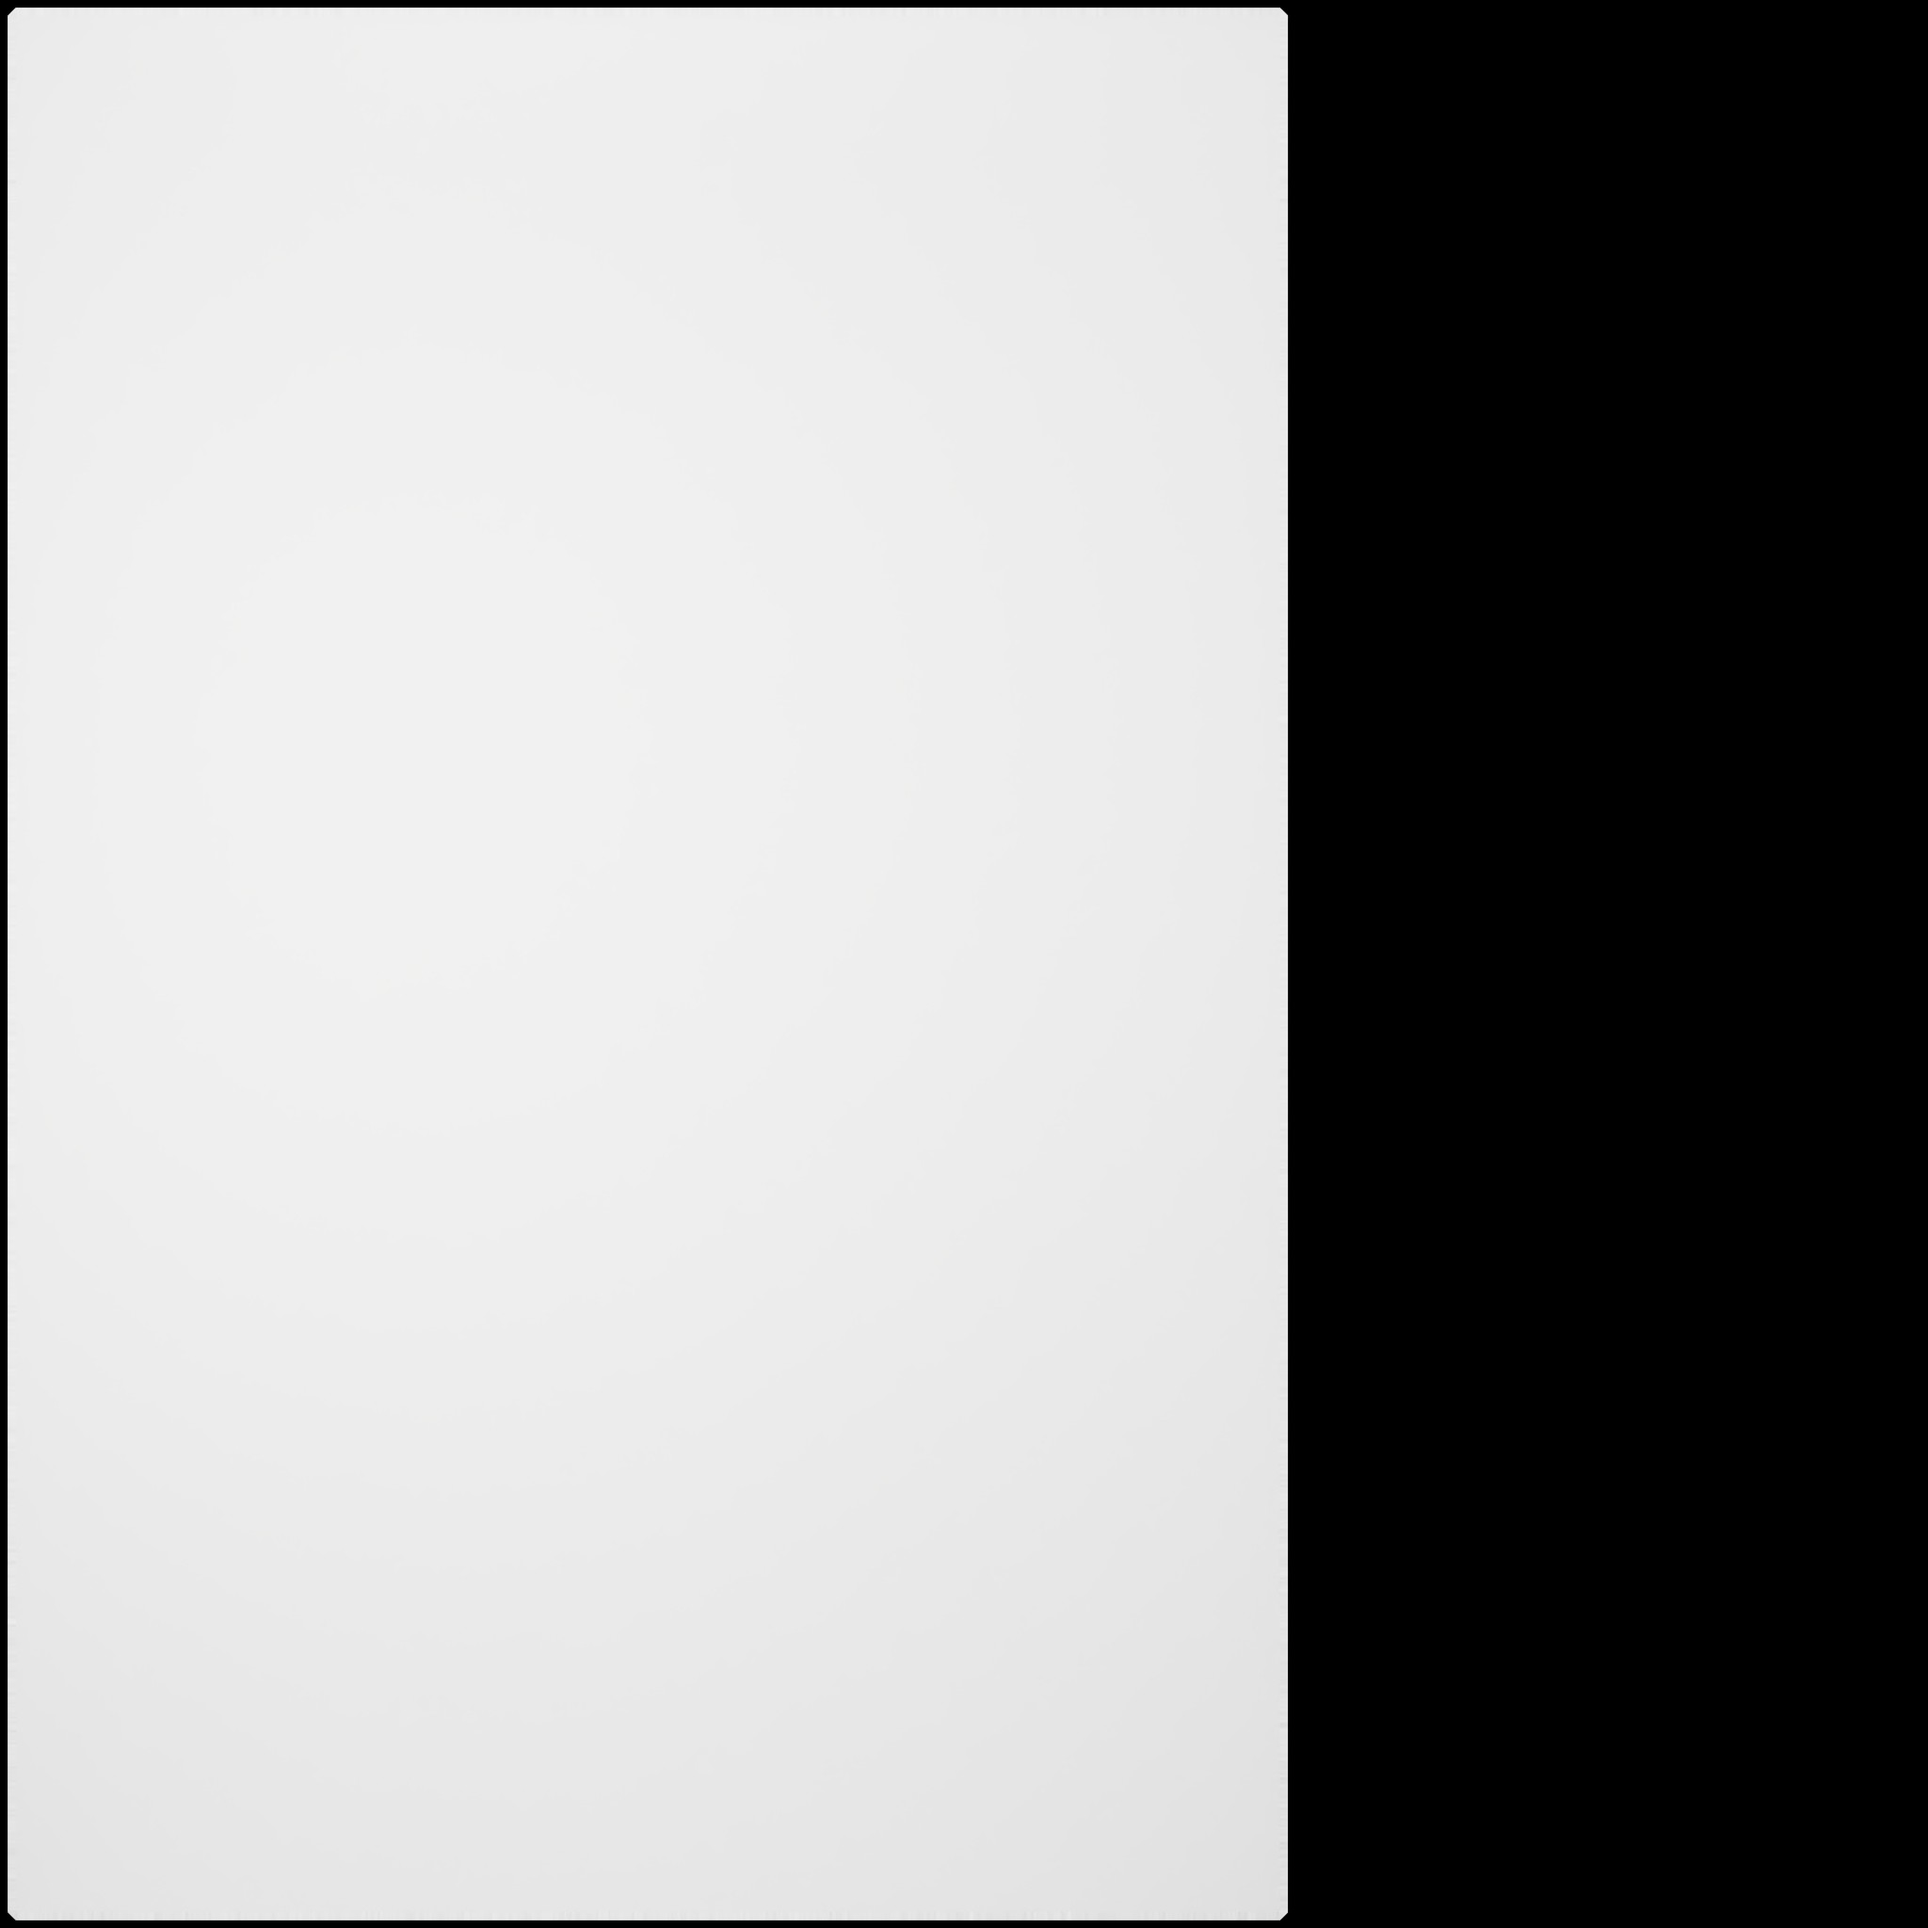
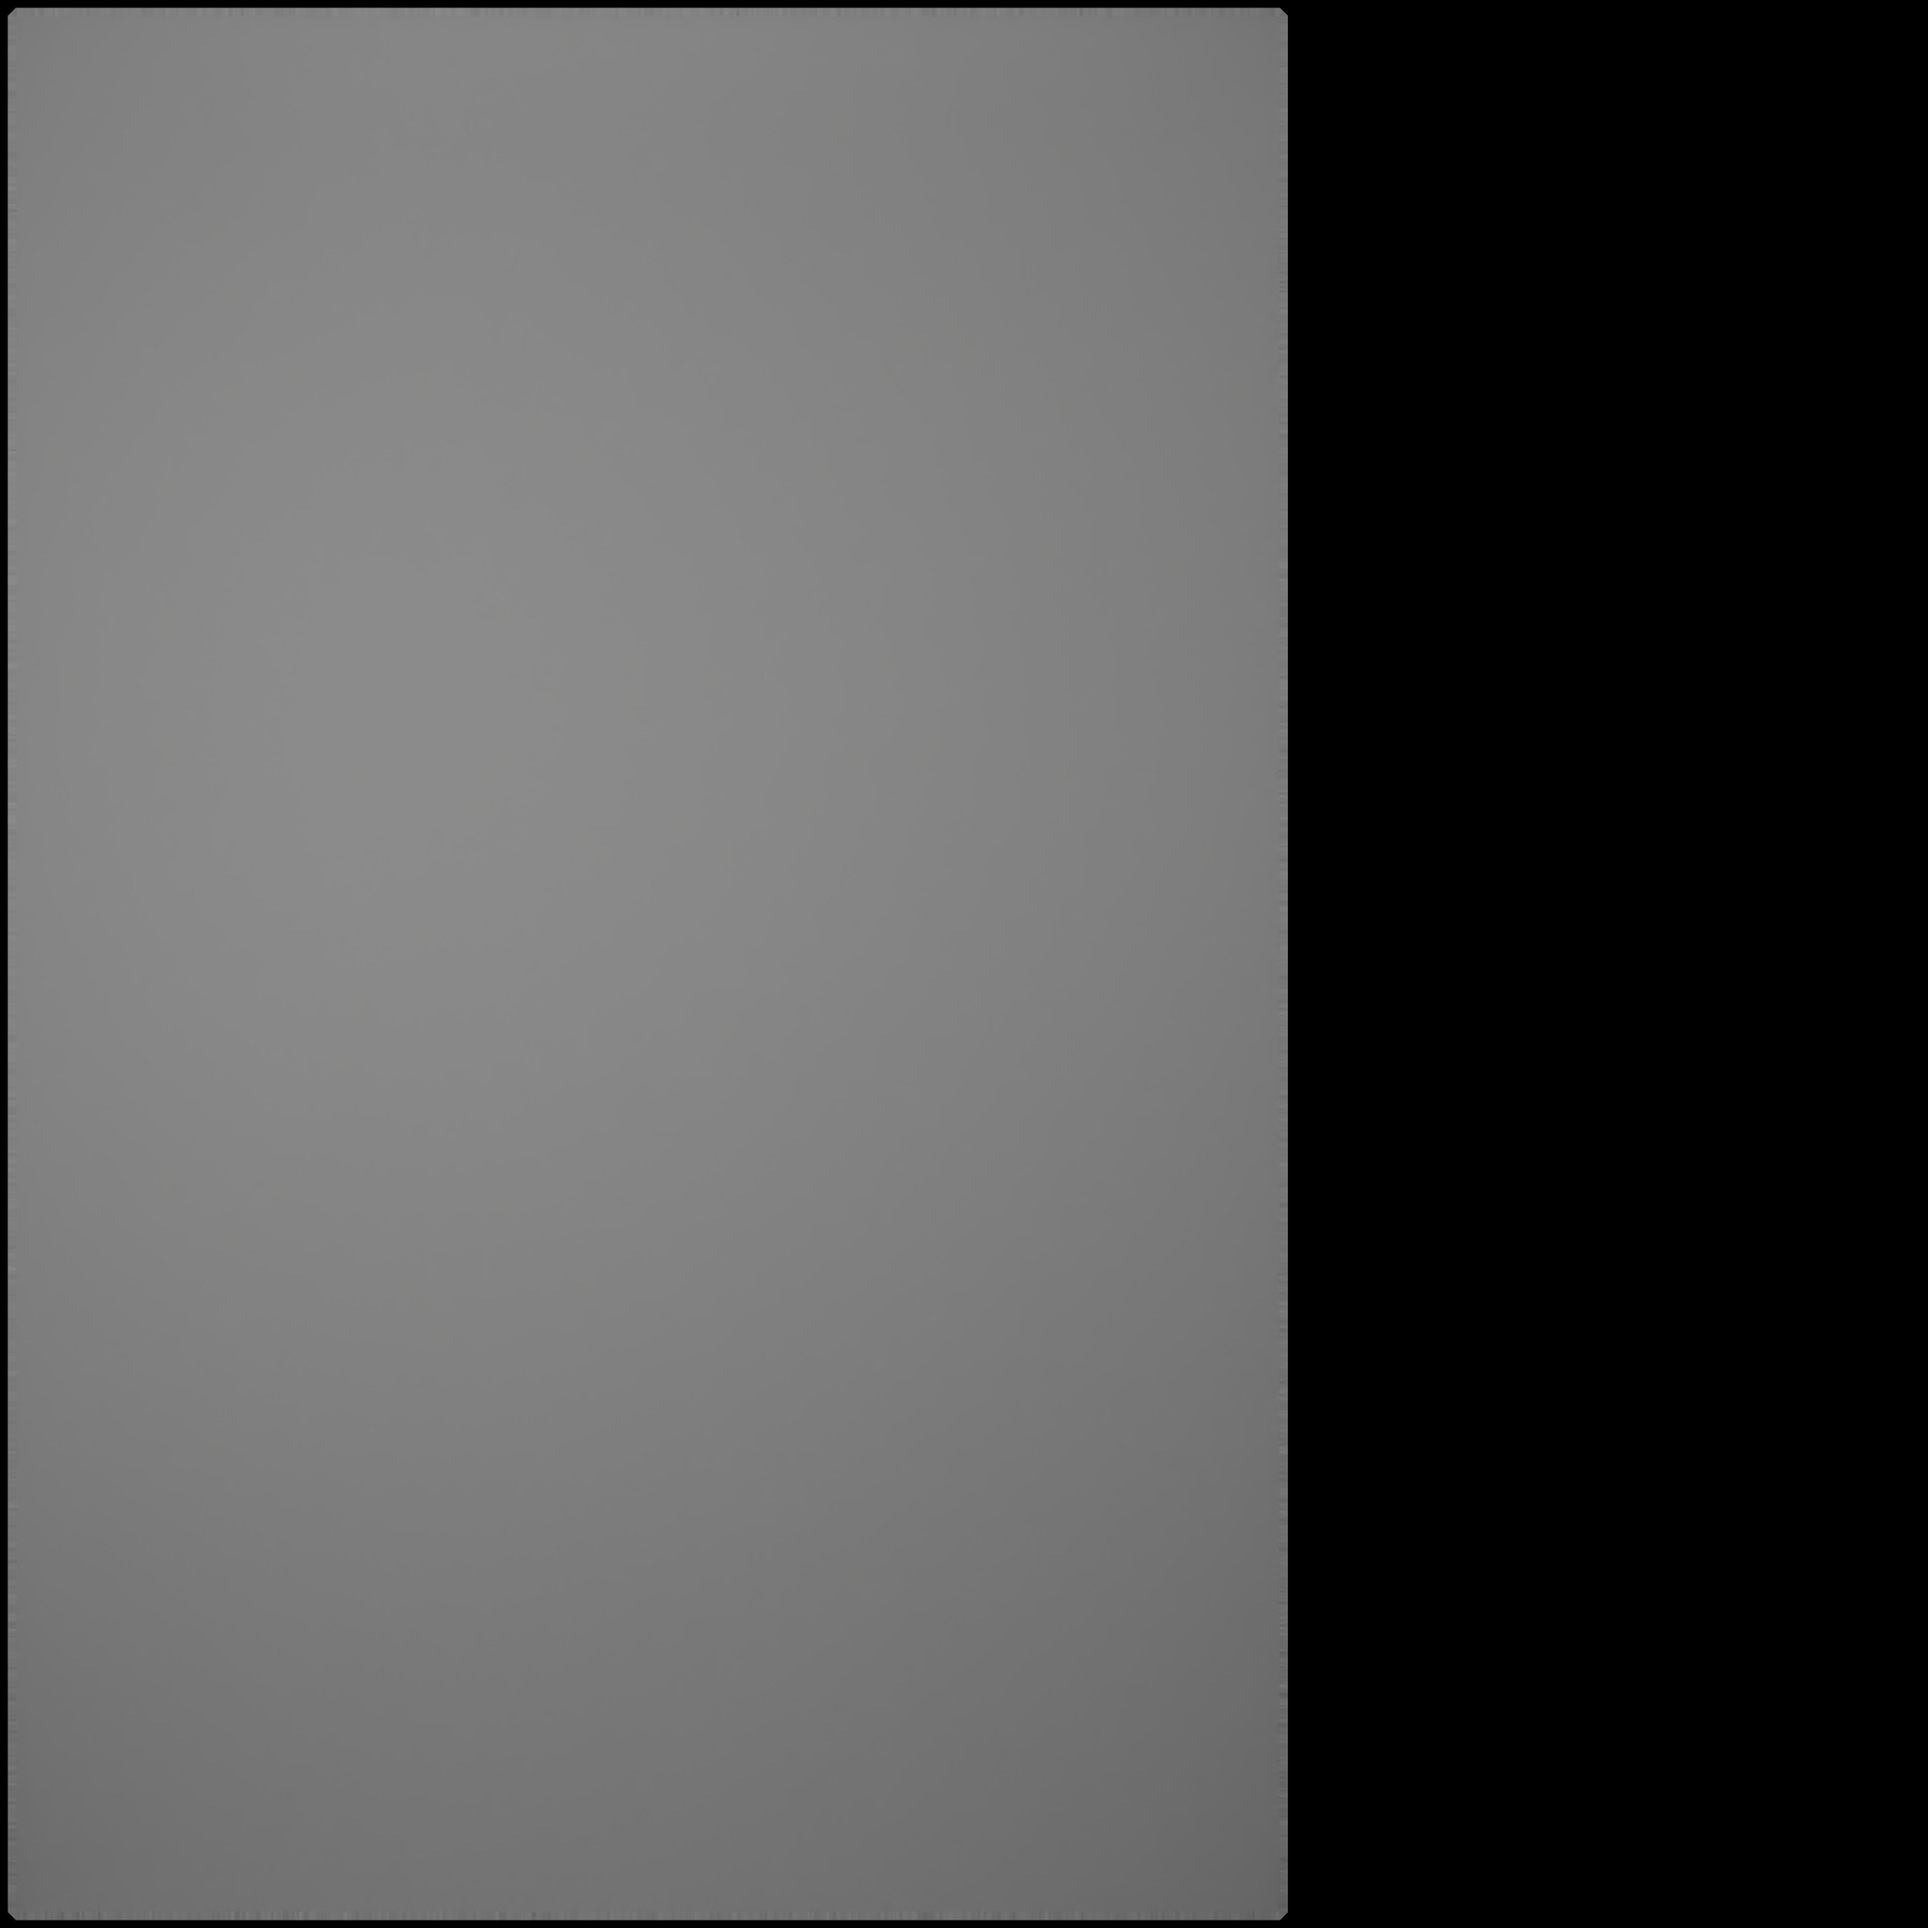
Add maps

diff --git a/src/CurtainRoom.jsx b/src/CurtainRoom.jsx
@@ -5,7 +5,7 @@ Command: npx gltfjsx@6.2.3 .\curtainRoom.glb -T -p 6
 
 import React, { useLayoutEffect, useRef } from "react";
 import { useGLTF, useTexture } from "@react-three/drei";
-import { MeshStandardMaterial } from "three";
+import { MeshStandardMaterial, SRGBColorSpace } from "three";
 
 export function CurtainRoom(props) {
   const { nodes, materials } = useGLTF("Experiment3/curtainRoom.glb");
@@ -17,10 +17,27 @@ export function CurtainRoom(props) {
     "/Experiment3/bakes/Floor_Bake1_CyclesBake_DIFFUSE.jpg",
     "/Experiment3/bakes/Room_Bake1_CyclesBake_DIFFUSE.jpg",
     "/Experiment3/bakes/Ceiling_Bake1_CyclesBake_DIFFUSE.jpg",
+    "/Experiment3/bakes/Room_Bake1_PBR_Ambient Occlusion.jpg",
+    "/Experiment3/bakes/Ceiling_Bake1_PBR_Ambient Occlusion.jpg",
+    "/Experiment3/bakes/Floor_Bake1_PBR_Ambient Occlusion.jpg",
   ]);
+
+  const floorProps = useTexture({
+    map: "/Experiment3/color.jpg",
+    roughnessMap: "/Experiment3/roughness.jpg",
+    normalMap: "/Experiment3/normal.jpg",
+  });
+
+  floorProps.map.colorSpace = SRGBColorSpace;
+
+  // const bakes = useTexture([
+  //   "/Experiment3/bakes/Floor_Bake1_CyclesBake_DIFFUSE.jpg",
+  //   "/Experiment3/bakes/Room_Bake1_CyclesBake_DIFFUSE.jpg",
+  //   "/Experiment3/bakes/Ceiling_Bake1_CyclesBake_DIFFUSE.jpg",
+  // ]);
   bakes.map((bake) => (bake.flipY = false));
 
-  const [floorbake, roombake, ceilingbake] = bakes;
+  const [floorbake, roombake, ceilingbake, aoWalls, aoCeiling, aoFloor] = bakes;
   console.log(bakes);
 
   useLayoutEffect(() => {
@@ -32,22 +49,44 @@ export function CurtainRoom(props) {
   const floorMat = new MeshStandardMaterial({
     lightMap: floorbake,
     envMapIntensity: 0,
-    lightMapIntensity: 0.5,
+    lightMapIntensity: 2,
+    ...floorProps,
   });
   const roomMat = new MeshStandardMaterial({
     lightMap: roombake,
-    envMapIntensity: 0.5,
+    envMapIntensity: 0,
+    lightMapIntensity: 1.2,
+    aoMap: aoWalls,
+    aoMapIntensity: 0.5,
   });
   const ceilingMat = new MeshStandardMaterial({
     lightMap: ceilingbake,
-    envMapIntensity: 0.5,
+    envMapIntensity: 0,
+    lightMapIntensity: 1,
+    aoMap: aoCeiling,
+    aoMapIntensity: 0.5,
   });
 
   return (
-    <group {...props} dispose={null}>
-      <mesh geometry={nodes.Room.geometry} material={roomMat} ref={room} />
-      <mesh geometry={nodes.Floor.geometry} material={floorMat} ref={floor} />
-      <mesh geometry={nodes.Ceiling.geometry} material={ceilingMat} ref={ceiling} />
+    <group
+      {...props}
+      dispose={null}
+    >
+      <mesh
+        geometry={nodes.Room.geometry}
+        material={roomMat}
+        ref={room}
+      />
+      <mesh
+        geometry={nodes.Floor.geometry}
+        material={floorMat}
+        ref={floor}
+      />
+      <mesh
+        geometry={nodes.Ceiling.geometry}
+        material={ceilingMat}
+        ref={ceiling}
+      />
     </group>
   );
 }

diff --git a/src/Scene.jsx b/src/Scene.jsx
@@ -10,7 +10,8 @@ export const Scene = () => {
     <SceneContainer>
       <Canvas camera={{ position: [0, 4, 4] }}>
         <OrbitControls />
-        <Environment preset="city" />
+        {/* <Environment preset="city" /> */}
+        <ambientLight intensity={0.3} />
         <Center>
           <CurtainRoom />
         </Center>
